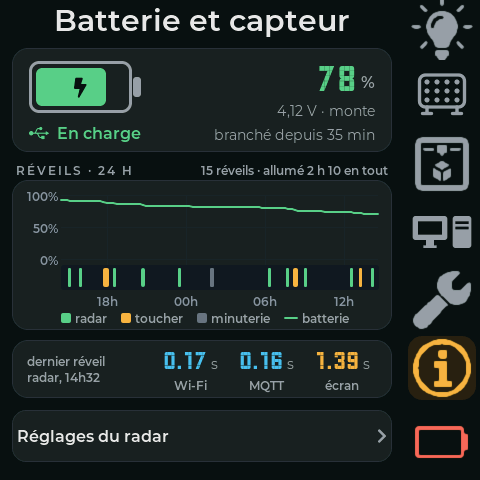
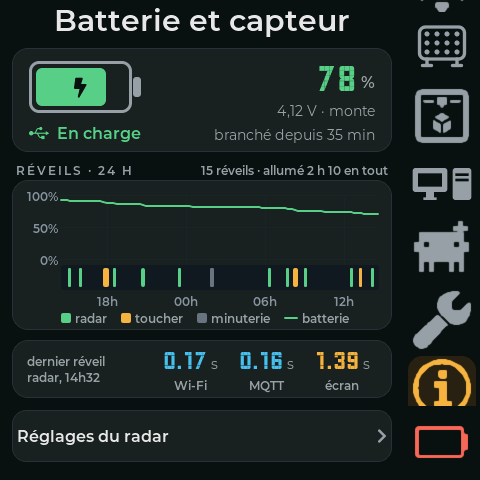
Captures de la galerie refaites au simulateur (avec l'option 3x5, comme les précédentes) : chauffage et vitrine GIF (anneaux tramés), graphes (plus d'escalier), PC (trois onglets), réglages (repos à 5 %), batterie, rail (icône IA) ; nouvelles captures page IA : jour, nuit, averse, neige

Changed region(s): [[0.8438, 0.0, 1.0, 0.8438]]

diff --git a/README.fr.md b/README.fr.md
@@ -93,6 +93,8 @@ la lune porte sa vraie phase, l'aube et le crépuscule teintent le ciel, les nua
 tombe, la neige blanchit le sol et le brouillard estompe le buisson. Toutes les images sont des
 dessins pixel régénérés par [tools/gen_scene_ia.py](tools/gen_scene_ia.py).
 
+<img src="docs/images/page-ia-pluie.png" width="234" alt="Page IA sous l'averse"> <img src="docs/images/page-ia-neige.png" width="234" alt="Page IA sous la neige">
+
 > Cette page est un **projet de fan non officiel, non affilié à Anthropic**. « Claude » et « Clawd »
 > sont des marques d'Anthropic. Les dessins de Clawd sont des dessins originaux, **exclus de la
 > licence MIT** ([lib/icones/NOTICE_CLAWD.md](lib/icones/NOTICE_CLAWD.md)). La page est inspirée de

diff --git a/README.md b/README.md
@@ -90,6 +90,8 @@ published by Home Assistant (`maison/ciel`, a ready-made automation in
 clouds drift, rain falls, snow whitens the ground and fog fades the bush. Every image is a pixel
 drawing regenerated by [tools/gen_scene_ia.py](tools/gen_scene_ia.py).
 
+<img src="docs/images/page-ia-pluie.png" width="234" alt="AI page in a downpour"> <img src="docs/images/page-ia-neige.png" width="234" alt="AI page in snowfall">
+
 > This page is an **unofficial fan project, not affiliated with Anthropic**. "Claude" and "Clawd" are
 > trademarks of Anthropic. The Clawd drawings are original artwork, **excluded from the MIT license**
 > ([lib/icones/NOTICE_CLAWD.md](lib/icones/NOTICE_CLAWD.md)). The page was inspired by
